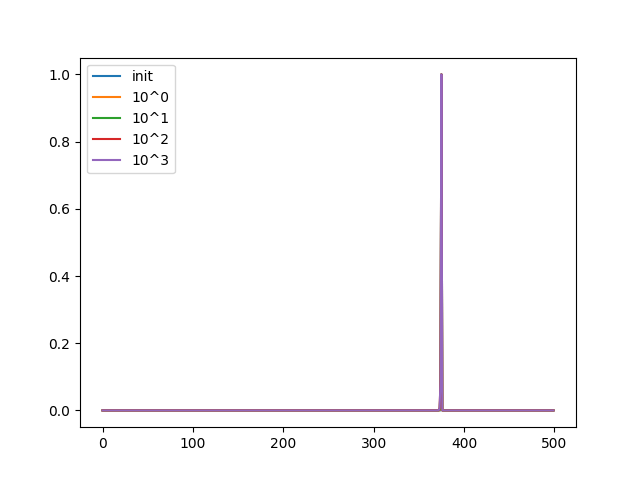
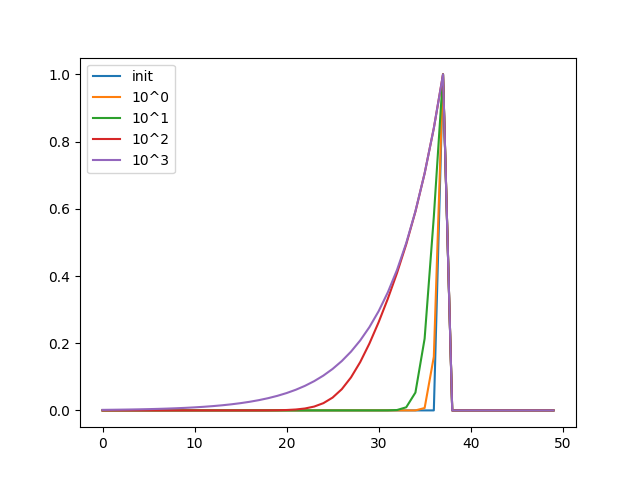
redraw figure2c as my parameter.
drawn with paper parameter, saved as original setting.

diff --git a/figure2C.py b/figure2C.py
@@ -13,7 +13,7 @@ import sr
 
 # maze env
 
-MAZE_LENGTH = 500 # p.8 of supplement, 
+MAZE_LENGTH = 50 # p.8 of supplement, 
 # the paper said that 500 states were used for 1D maze, it seems to be typo
 # 50 states shows similar results with the figure 2C.
 SR_POINT = int(MAZE_LENGTH * 0.75)
@@ -31,7 +31,7 @@ END = [0, MAZE_LENGTH - 1]
 
 # hyperparameter for updating SR matrix
 alpha = 0.1
-gamma = 0.084 # p.8 of supplement
+gamma = 0.84 # p.8 of supplement
 # the paper said that 0.084 gamma was used for 1D maze,
 # 0.84 gamma shows similar results. With smaller gamma, the sharper SR rate shows.
 
